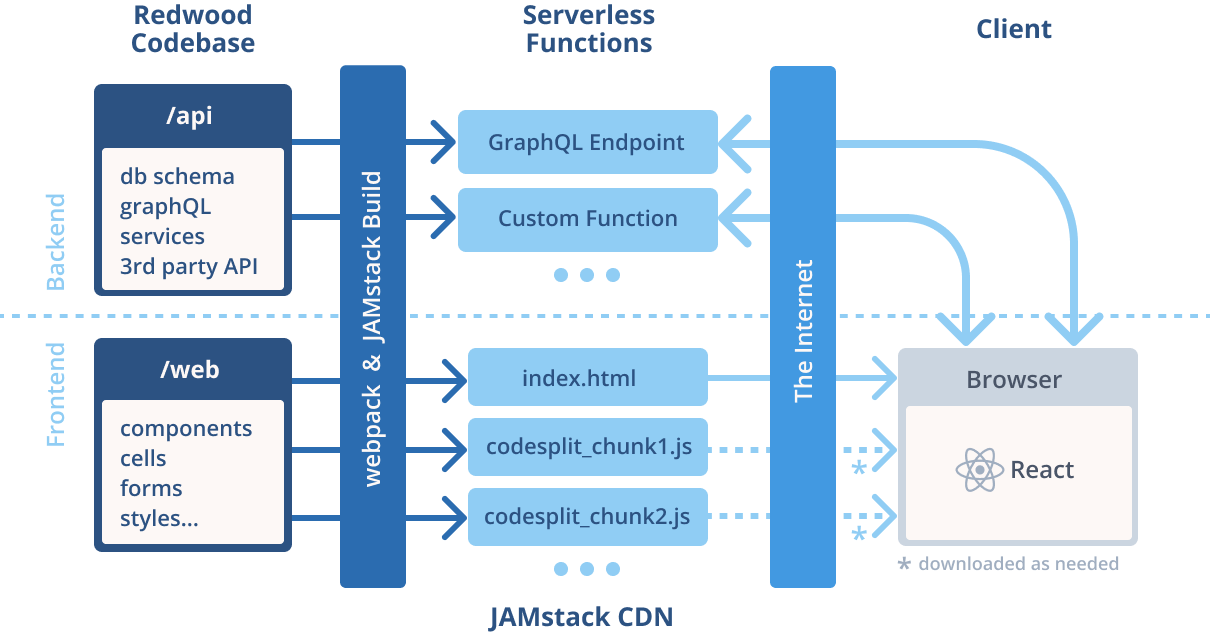
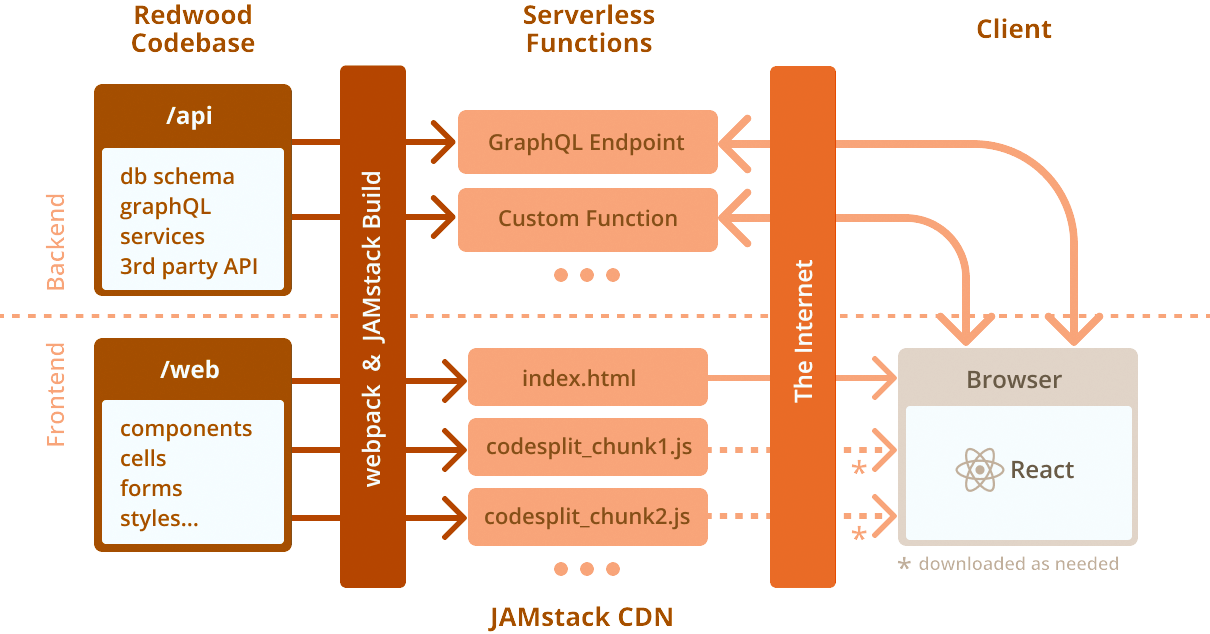
Restyle code samples, colorize structure to match site

diff --git a/code/html/index.html b/code/html/index.html
@@ -76,7 +76,7 @@
       </a>
       <p class="text-sm mt-1">The Redwood logo on shirts, hats and more!</p>
     </header>
-    <a href="https://shop.redwoodjs.com" class="block mt-4 text-center text-2xl bg-red-700 hover:bg-red-600 transition duration-200 py-3 rounded text-red-100">The Redwood Shop &rarr;</a>
+    <a href="https://shop.redwoodjs.com" class="block mt-4 text-center text-2xl tracking-tight text-red-100 bg-red-700 hover:bg-red-600 transition duration-200 py-3 rounded">The Redwood Shop &rarr;</a>
   </div>
 
   <div class="md:w-1/3 md:pl-12 mt-8 md:mt-0">
@@ -105,8 +105,8 @@
   <div class="flex flex-col md:flex-row lg:flex-col justify-between lg:w-1/3 text-center px-4">
     <img src="/images/icon-edge.svg" class="block w-40 mx-auto" />
     <div class="ml-0 md:ml-8 lg:ml-0 text-center md:text-left lg:text-center w-full">
-      <h2 class="text-2xl font-semibold mt-2 py-2 bg-red-800 text-red-200 rounded">Edge-ready</h2>
-      <p class="lg:mt-4 px-2">
+      <h2 class="text-2xl font-bold mt-2 py-2 bg-red-800 text-red-200 tracking-tight rounded">Edge–ready</h2>
+      <p class="lg:mt-4 px-2 text-red-800">
         Redwood is designed to be deployable completely to the
         <span class="whitespace-no-wrap">Edge—</span>CDNs and serverless functions distributed everywhere. (Databases
         coming soon!)
@@ -118,12 +118,11 @@
   <div class="flex flex-col md:flex-row lg:flex-col justify-between lg:w-1/3 text-center px-4 mt-8 md:mt-4 lg:mt-0">
     <img src="/images/icon-organization.svg" class="block w-40 mx-auto" />
     <div class="ml-0 md:ml-8 lg:ml-0 text-center md:text-left lg:text-center w-full">
-      <h2 class="text-2xl font-semibold mt-2 py-2 bg-red-700 text-red-200 rounded">
+      <h2 class="text-2xl font-bold mt-2 py-2 bg-red-700 text-red-200 tracking-tight rounded">
         Code Organization
       </h2>
-      <p class="lg:mt-4 px-2">
-        Redwood has a pre-defined place for all your
-        <span class="whitespace-no-wrap">code—</span> front-end and back-end. Components, layouts, pages, GraphQL, and
+      <p class="lg:mt-4 px-2 text-red-800">
+        Redwood has a pre-defined place for all your code, front-end and back-end. Components, layouts, pages, GraphQL, and
         services: they all have a home.
       </p>
     </div>
@@ -134,13 +133,13 @@
   >
     <img src="/images/icon-code.svg" class="block w-40 mx-auto" />
     <div class="ml-0 md:ml-8 lg:ml-0 text-center md:text-left lg:text-center w-full">
-      <h2 class="text-2xl font-semibold mt-2 py-2 bg-red-600 text-red-200 rounded">
+      <h2 class="text-2xl font-bold mt-2 py-2 bg-red-600 text-red-200 tracking-tight rounded">
         Developer Experience
       </h2>
-      <p class="lg:mt-4 px-2">
+      <p class="lg:mt-4 px-2 text-red-800">
         Redwood apps are as declarative as possible; we eliminate most boilerplate; zero-config code
         splitting...everything
-        <span class="whitespace-no-wrap">Just Works&trade;.</span>
+        <span class="whitespace-no-wrap">just works</span>.
       </p>
     </div>
   </div>
@@ -148,20 +147,20 @@
 
 <!-- Code samples -->
 
-<section class="md:flex mt-12 pt-12 border-t border-red-200">
+<section class="md:flex mt-12 pt-12 max-w-screen-lg mx-auto">
   <div class="md:w-2/5 pr-4">
-    <h3 class="text-lg font-semibold">How it's Organized</h3>
-    <p class="my-2 text-sm">
-      Redwood places both the frontend and backend code in a single monorepo.
+    <h3 class="text-2xl text-red-700 font-bold tracking-tight">How it's Organized</h3>
+    <p class="my-3">
+      Redwood places both the frontend and backend code in a <span class="whitespace-nowrap">single monorepo.</span>
     </p>
-    <p class="my-2 text-sm">
+    <p class="my-3">
       <code class="text-red-700 bg-red-200 py-half px-1 rounded text-xs">/web</code>
-      contains the frontend and is served as static files through a CDN (and automatically code-split for you).
+      contains the frontend and is served as static files through a CDN (and automatically code-split <span class="whitespace-nowrap">for you).</span>
     </p>
-    <p class="my-2 text-sm">
+    <p class="my-3">
       <code class="text-red-700 bg-red-200 py-half px-1 rounded text-xs">/api</code>
       contains the backend serverless functions (a GraphQL API by default) that your frontend will call when it needs
-      some dynamic data.
+      some <span class="whitespace-nowrap">dynamic data.</span>
     </p>
   </div>
   <div class="md:w-3/5 md:pl-4 mt-4 md:mt-0">
@@ -169,54 +168,66 @@
   </div>
 </section>
 
-<section class="md:flex mt-12 pt-12 border-t border-red-200">
-  <div class="md:w-2/5 pr-4">
-    <h3 class="text-lg font-semibold">Routing</h3>
-    <p class="my-2 text-sm">
-      Redwood features its own router that brings some awesome innovation to this often overlooked (but important)
-      part of your app.
-      <strong>Named routes</strong> let you reference a route by a name you define,
-      <strong>route param types</strong> take care of coercing values based on data type or custom functions, and
-      more.
-    </p>
-  </div>
-  <div class="md:w-3/5 md:pl-4 mt-4 md:mt-0">
-    <pre><code class="javascript" data-target="application.code">// web/src/Routes.js
+<div class="flex w-36 mx-auto">
+  <img src="/images/logo.svg" class="mt-24 w-8 mx-auto" />
+  <img src="/images/logo.svg" class="mt-24 w-8 mx-auto" />
+  <img src="/images/logo.svg" class="mt-24 w-8 mx-auto" />
+</div>
+
+<section class="md:flex mt-24 max-w-screen-lg mx-auto">
+  <div class="md:w-3/5 md:pr-4 mt-4 md:mt-0">
+    <pre class="border border-red-200 rounded-lg"><code class="javascript" data-target="application.code">// web/src/Routes.js
 import { Router, Route } from '@redwoodjs/router'
 const Routes = () => {
-return (
-  &lt;Router&gt;
-    &lt;Route path="/" page={HomePage} name="home" /&gt;
-    &lt;Route path="/users/{type}" page={UsersPage} name="users" /&gt;
-  &lt;/Router&gt;
-)
+  return (
+    &lt;Router&gt;
+      &lt;Route path="/" page={HomePage} name="home" /&gt;
+      &lt;Route path="/users/{type}" page={UsersPage} name="users" /&gt;
+    &lt;/Router&gt;
+  )
 }
 
 // web/src/components/Admin/Admin.js
 import { Link, routes } from '@redwoodjs/router'
 const Admin = () => {
-return (
-  &lt;h1&gt;&lt;Link to={routes.home()}&gt;My CRM&lt;/Link&gt;&lt;/h1&gt;
-  &lt;Link to={routes.users({type: "admin"})}&gt;View Admins&lt;/Link&gt;
-)
+  return (
+    &lt;h1&gt;&lt;Link to={routes.home()}&gt;My CRM&lt;/Link&gt;&lt;/h1&gt;
+    &lt;Link to={routes.users({type: "admin"})}&gt;View Admins&lt;/Link&gt;
+  )
 }</code></pre>
+  </div>
+
+  <div class="md:w-2/5 pl-4">
+    <h3 class="text-2xl text-red-700 font-bold tracking-tight">Routing</h3>
+    <p class="my-3">
+      Redwood features its own router that brings some awesome innovation to this often overlooked (but important)
+      part of <span class="whitespace-nowrap">your app.</span>
+      <strong>Named routes</strong> let you reference a route by a name you define,
+      <strong>route param types</strong> take care of coercing values based on data type or custom functions, <span class="whitespace-nowrap">and more.</span>
+    </p>
   </div>
 </section>
 
-<section class="md:flex mt-12 pt-12 border-t border-red-200">
-  <div class="md:w-2/5 pr-4">
-    <h3 class="text-lg font-semibold">Cells</h3>
-    <p class="my-2 text-sm">
+<div class="flex w-36 mx-auto">
+  <img src="/images/logo.svg" class="mt-24 w-8 mx-auto" />
+  <img src="/images/logo.svg" class="mt-24 w-8 mx-auto" />
+  <img src="/images/logo.svg" class="mt-24 w-8 mx-auto" />
+</div>
+
+<section class="md:flex mt-24 max-w-screen-lg mx-auto">
+  <div class="md:w-2/5 pr-4 text-right">
+    <h3 class="text-2xl text-red-700 font-bold tracking-tight">Cells</h3>
+    <p class="my-3">
       The sequence of retrieving data from an API, showing a loading placeholder, and then displaying the result is so
-      common that Redwood codifies it into a declarative code pattern, resulting in simple and readable code!
+      common that Redwood codifies it into a declarative code pattern, resulting in simple and <span class="whitespace-nowrap">readable code!</span>
     </p>
-    <p class="my-2 text-sm">
+    <p class="my-3">
       We call them <strong>cells</strong> and they contain the GraphQL query, loading, empty, error, and success
-      states, each one rendering itself automatically depending on what state your cell is in.
+      states, each one rendering itself automatically depending on what state your cell <span class="whitespace-nowrap">is in.</span>
     </p>
   </div>
   <div class="md:w-3/5 md:pl-4 mt-4 md:mt-0">
-    <pre><code class="javascript" data-target="application.code">// web/src/components/UsersCell/UsersCell.js
+    <pre class="border border-red-200 rounded-lg"><code class="javascript" data-target="application.code">// web/src/components/UsersCell/UsersCell.js
 export const QUERY = gql`
 query USERS {
   users {
@@ -229,81 +240,91 @@ export const Loading = () => &lt;div&gt;Loading users...&lt;/div&gt;
 export const Empty = () => &lt;div&gt;No users yet!&lt;/div&gt;
 export const Failure = ({ message }) => &lt;div&gt;Error: {message}&lt;/div&gt;
 export const Success = ({ users }) => {
-return (
-  &lt;ul&gt;
-    { users.map(user => (
-      &lt;li&gt;{user.id} | {user.name}&lt;/li&gt;
-    ))}
-  &lt;/ul&gt;
-)
+  return (
+    &lt;ul&gt;
+      { users.map(user => (
+        &lt;li&gt;{user.id} | {user.name}&lt;/li&gt;
+      ))}
+    &lt;/ul&gt;
+  )
 }</code></pre>
   </div>
 </section>
 
-<section class="md:flex mt-12 pt-12 border-t border-red-200">
-  <div class="md:w-2/5 pr-4">
-    <h3 class="text-lg font-semibold">Services</h3>
-    <p class="my-2 text-sm">
-      Redwood puts all your business logic in one place—<strong>Services</strong>. These can be used by your GraphQL
-      API or any other place in your backend code. Redwood does all of the annoying stuff for you.
-    </p>
-    <p></p>
-    <p class="my-2 text-sm">
-      Check out how easy it is to create and consume a GraphQL endpoint (we didn't even omit any other
-      <code class="bg-red-200 text-red-600 font-mono text-sm px-1 py-half rounded">import</code>
-      statements or cheat to get the code smaller, honest!):
-    </p>
-  </div>
-  <div class="md:w-3/5 md:pl-4 mt-4 md:mt-0">
-    <pre><code class="javascript" data-target="application.code">// api/src/graphql/users.sdl.js
+<div class="flex w-36 mx-auto">
+  <img src="/images/logo.svg" class="mt-24 w-8 mx-auto" />
+  <img src="/images/logo.svg" class="mt-24 w-8 mx-auto" />
+  <img src="/images/logo.svg" class="mt-24 w-8 mx-auto" />
+</div>
+
+<section class="md:flex mt-24 max-w-screen-lg mx-auto">
+  <div class="md:w-3/5 md:pr-4 mt-4 md:mt-0">
+    <pre class="border border-red-200 rounded-lg"><code class="javascript" data-target="application.code">// api/src/graphql/users.sdl.js
 export const schema = gql`
-type User {
-  id: Int!
-  name: String!
-}
-type Query {
-  users: [User]
-}
+  type User {
+    id: Int!
+    name: String!
+  }
+  type Query {
+    users: [User]
+  }
 `
 
 // api/src/services/users/users.js
 import { db } from 'src/lib/db'
 
-export const users = () => {
-return db.user.findMany()
-}
+export const users = () => db.user.findMany()
 
 // web/src/components/UsersCell/UsersCell.js
 export const QUERY = gql`
-query USERS {
-  users {
-    id
-    name
+  query USERS {
+    users {
+      id
+      name
+    }
   }
-}
 `
 export const Success = ({ users }) => {
-return JSON.stringify(users)
+  return JSON.stringify(users)
 }</code></pre>
+  </div>
+  <div class="md:w-2/5 pl-4">
+    <h3 class="text-2xl text-red-700 font-bold tracking-tight">Services</h3>
+    <p class="my-3">
+      Redwood puts all your business logic in one place—<strong>Services</strong>. These can be used by your GraphQL
+      API or any other place in your backend code. Redwood does all of the annoying stuff <span class="whitespace-nowrap">for you.</span>
+    </p>
+    <p></p>
+    <p class="my-3">
+      Check out how easy it is to create and consume a GraphQL endpoint (we didn't even omit any other
+      <code class="bg-red-200 text-red-600 font-mono text-sm px-1 py-half rounded">import</code>
+      statements or cheat to get the code smaller, <span class="whitespace-nowrap">honest!).</span>
+    </p>
   </div>
 </section>
 
-<section class="md:flex mt-12 pt-12 border-t border-red-200">
-  <div class="md:w-2/5 pr-4">
-    <h3 class="text-lg font-semibold">Generators</h3>
-    <p class="my-2 text-sm">
+<div class="flex w-36 mx-auto">
+  <img src="/images/logo.svg" class="mt-24 w-8 mx-auto" />
+  <img src="/images/logo.svg" class="mt-24 w-8 mx-auto" />
+  <img src="/images/logo.svg" class="mt-24 w-8 mx-auto" />
+</div>
+
+<section class="md:flex mt-24 max-w-screen-lg mx-auto">
+  <div class="md:w-2/5 pr-4 text-right">
+    <h3 class="text-2xl text-red-700 font-bold tracking-tight">Generators</h3>
+    <p class="my-3">
       Even with a relentless elimination of boilerplate, Redwood files still need a bit of code to get you started,
-      and need to be created in the right directories. No problem, let a computer do that for you!
+      and need to be created in the right directories. No problem, let a computer do that <span class="whitespace-nowrap">for you!</span>
     </p>
-    <p class="my-2 text-sm">
+    <p class="my-3">
       Redwood contains several <strong>generators</strong> which create the shell of cells, pages, layouts, services,
       and more. We even have a <strong>scaffold</strong> generator which will create all the pages necessary to run
-      end-to-end CRUD operations on a database table.
+      end-to-end CRUD operations on a <span class="whitespace-nowrap">database table.</span>
     </p>
   </div>
   <div class="md:w-3/5 md:pl-4 mt-4 md:mt-0">
-    <pre><code class="bash" data-target="application.code"># Create a cell for Users
-$ yarn rw generate cell Users
+    <pre class="border border-red-200 rounded-lg"><code class="bash" data-target="application.code"># Create a cell for Users
+$ yarn rw generate cell User
 
 # Create a layout named Admin
 $ yarn rw generate layout Admin
@@ -322,37 +343,43 @@ $ yarn rw generate scaffold User</code></pre>
   </div>
 </section>
 
-<section class="md:flex mt-12 pt-12 border-t border-red-200">
-  <div class="md:w-2/5 pr-4">
-    <h3 class="text-lg font-semibold">Forms</h3>
-    <p class="my-2 text-sm">
-      Working with forms is notoriously annoying in React apps. Redwood removes the complexity and gives you the
-      freedom to work with regular HTML inputs, but sprinkled with a bit of validation and error handling. Show client
-      and server-side errors automatically and style them like any other React component.
-    </p>
-  </div>
-  <div class="md:w-3/5 md:pl-4 mt-4 md:mt-0">
-    <pre><code class="javascript" data-target="application.code">// web/src/components/Comment/Comment.js
+<div class="flex w-36 mx-auto">
+  <img src="/images/logo.svg" class="mt-24 w-8 mx-auto" />
+  <img src="/images/logo.svg" class="mt-24 w-8 mx-auto" />
+  <img src="/images/logo.svg" class="mt-24 w-8 mx-auto" />
+</div>
+
+<section class="md:flex mt-24 max-w-screen-lg mx-auto">
+  <div class="md:w-3/5 md:pr-4 mt-4 md:mt-0">
+    <pre class="border border-red-200 rounded-lg"><code class="javascript" data-target="application.code">// web/src/components/Comment/Comment.js
 import { Form, Label, TextAreaField, FieldError, Submit } from "@redwoodjs/web"
 
 export const Comment = () => {
-const onSubmit = (data) => {
-  console.info(`Submitted: ${data}`)
-}
-return (
-  &lt;Form onSubmit={onSubmit}&gt;
-    &lt;Label name="comment" errorStyle={{ color: "red" }} /&gt;
-    &lt;TextAreaField
-      name="comment"
-      errorStyle={{ borderColor: "red" }}
-      validation={{ required: true }}
-    /&gt;
-    &lt;FieldError name="comment" errorStyle={{ color: "red" }} /&gt;
-    &lt;Submit&gt;Send&lt;/Submit&gt;
-  &lt;/Form&gt;
-)
+  const onSubmit = (data) => {
+    console.info(`Submitted: ${data}`)
+  }
+  return (
+    &lt;Form onSubmit={onSubmit}&gt;
+      &lt;Label name="comment" errorStyle={{ color: "red" }} /&gt;
+      &lt;TextAreaField
+        name="comment"
+        errorStyle={{ borderColor: "red" }}
+        validation={{ required: true }}
+      /&gt;
+      &lt;FieldError name="comment" errorStyle={{ color: "red" }} /&gt;
+      &lt;Submit&gt;Send&lt;/Submit&gt;
+    &lt;/Form&gt;
+  )
 }
     </code></pre>
+  </div>
+  <div class="md:w-2/5 pl-4 text">
+    <h3 class="text-2xl text-red-700 font-bold tracking-tight">Forms</h3>
+    <p class="my-2">
+      Working with forms is notoriously annoying in React apps. Redwood removes the complexity and gives you the
+      freedom to work with regular HTML inputs, but sprinkled with a bit of validation and error handling. Show client
+      and server-side errors automatically and style them like any other <span class="whitespace-nowrap">React component.</span>
+    </p>
   </div>
 </section>
 

diff --git a/code/html/layouts/application.html b/code/html/layouts/application.html
@@ -21,7 +21,7 @@
     <link rel="apple-touch-icon" href="/images/opengraph-256.png">
     <link rel="stylesheet" type="text/css" href="/stylesheets/application.css" />
     <link href="https://fonts.googleapis.com/css?family=Open+Sans:300,400,600,700&display=swap" rel="stylesheet">
-    <link rel="stylesheet" href="//cdnjs.cloudflare.com/ajax/libs/highlight.js/9.18.1/styles/atom-one-dark.min.css">
+    <link rel="stylesheet" href="//cdnjs.cloudflare.com/ajax/libs/highlight.js/9.18.1/styles/atelier-forest-light.min.css">
     <script type="text/javascript" src="/javascripts/application.js"></script>
   </head>
 
